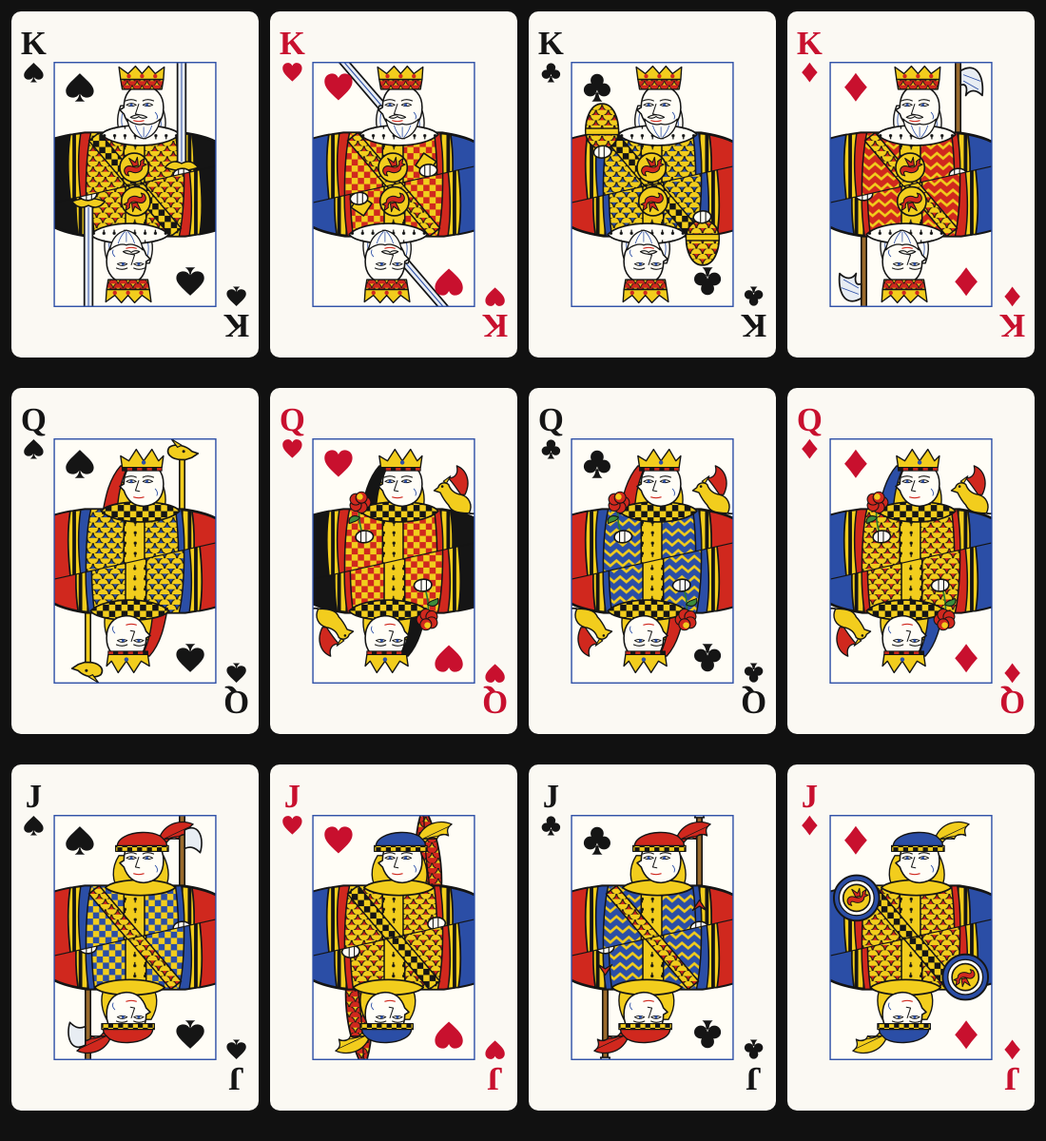
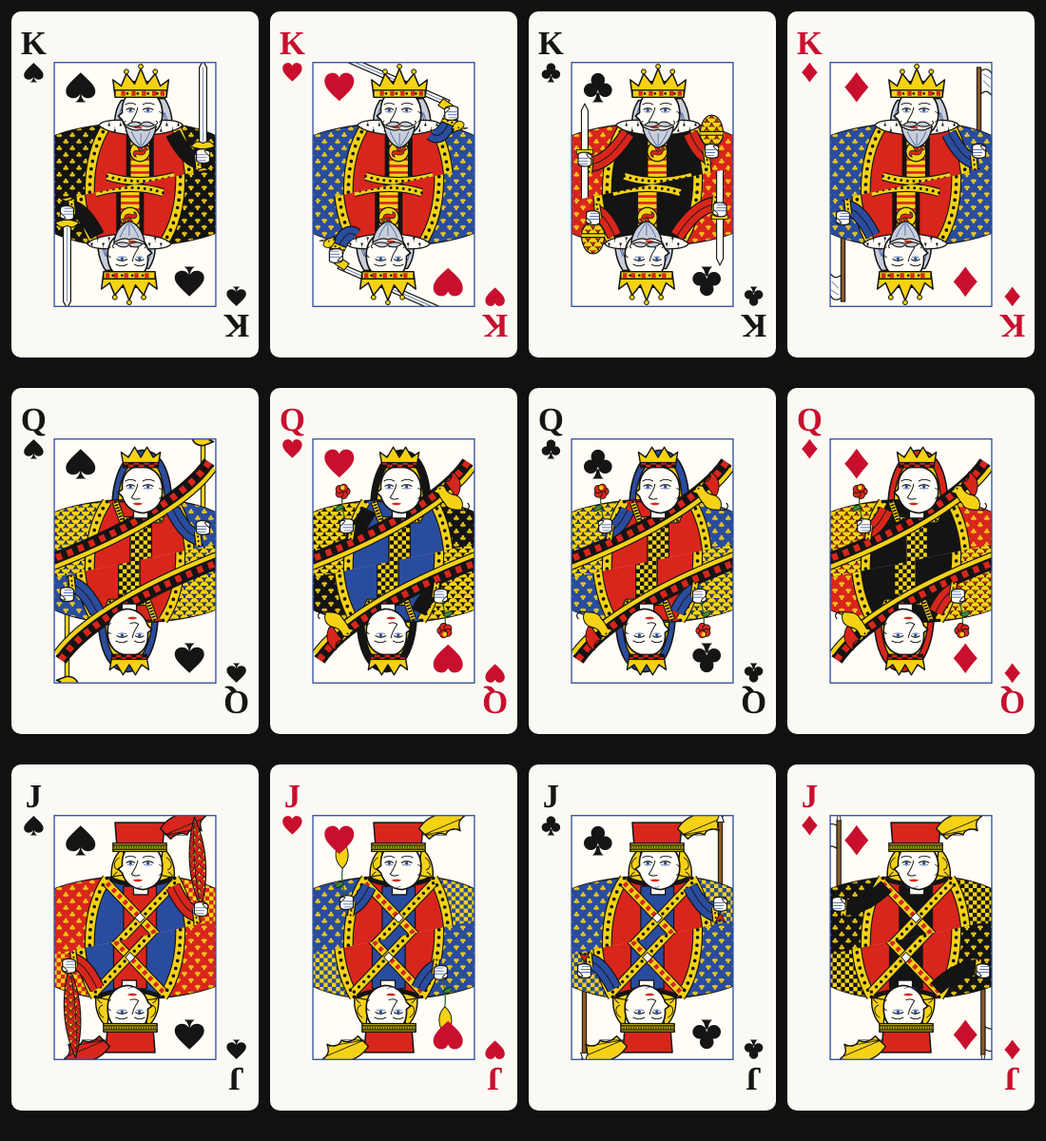
Court cards redrawn to follow the classic printed style more closely
Figures now fill the frame edge to edge; robes are built from braided
bands (black-edged strips with dots, blocks and stitching) curving down
the front, with ermine capes, patterned side panels, barred plackets,
sleeves ending in braided cuffs and white fists gripping the props.
Faces are fine line drawings with larger heads; kings have grey hair,
curled moustaches and beards, queens hoods and a diagonal veil band,
jacks flat-topped caps and curly hair. Dragon touches are kept.

Claude-Session: https://claude.ai/code/session_011sbz8Qg3PLjYgjJ6kkM3NU

diff --git a/cardArt.js b/cardArt.js
@@ -61,34 +61,40 @@ function ace(ctx,s){
 }
 
 /* ---------- court cards (J, Q, K) ----------
-   Drawn in the traditional printed style: flat red, yellow, blue and black with heavy outlines and patterned robes.
+   Modelled on the classic printed court cards: the figure fills its frame edge to edge, robes are covered in
+   "braided" bands (black-edged strips filled with dots, blocks and crosses), faces are fine line drawings,
+   and the colours are only red, yellow, blue, black and white.
    The top half is drawn once; then the canvas is turned 180 degrees and the same drawing fills the bottom half.
-   The two halves meet on a diagonal, like real cards.
-   Dragon touches: dragon-scale cloth, a dragon badge on each king's chest, a little dragon perched on each
-   queen's shoulder, a dragon-wing plume in each jack's cap, and dragon-themed things in their hands. */
-const CK={red:"#d0281e",yellow:"#f2cd1d",blue:"#2b4ea6",black:"#151515",white:"#fffdf6",steel:"#e8edf3"};
-// colours, cloth pattern and the item each court card holds
+   Dragon touches are worked into the traditional props and cloth (see COURT below). */
+const CK={red:"#d8261c",yellow:"#f5d215",blue:"#2a4c9e",black:"#141414",white:"#fffdf6",grey:"#c9ced8"};
+// colours and props for each card: a = main robe colour, b = side panels, item = what they hold
 const COURT={
-  KS:{robe:"red",sleeve:"black",pat:"scales",item:"sword"},   KH:{robe:"red",sleeve:"blue",pat:"checker",item:"swordBehind"},
-  KC:{robe:"blue",sleeve:"red",pat:"scales",item:"egg"},      KD:{robe:"red",sleeve:"blue",pat:"zigzag",item:"axe"},
-  QS:{robe:"blue",sleeve:"red",pat:"scales",item:"sceptre"},  QH:{robe:"red",sleeve:"black",pat:"checker",item:"rose"},
-  QC:{robe:"blue",sleeve:"red",pat:"zigzag",item:"rose"},     QD:{robe:"red",sleeve:"blue",pat:"scales",item:"rose"},
-  JS:{robe:"blue",sleeve:"red",pat:"checker",item:"halberd"}, JH:{robe:"red",sleeve:"blue",pat:"scales",item:"feather"},
-  JC:{robe:"blue",sleeve:"red",pat:"zigzag",item:"arrow"},    JD:{robe:"red",sleeve:"blue",pat:"scales",item:"shield"},
+  KS:{a:"red",b:"black",item:"sword"},        // sword with a dragon-wing guard and dragon-head pommel
+  KH:{a:"red",b:"blue",item:"swordBehind"},   // the sword behind the head, dragon-head pommel
+  KC:{a:"black",b:"red",item:"egg"},          // a dragon egg instead of the orb
+  KD:{a:"red",b:"blue",item:"axe"},           // an axe with a dragon-wing blade
+  QS:{a:"red",b:"blue",item:"sceptre"},       // a sceptre topped with a dragon's head
+  QH:{a:"blue",b:"black",item:"flower"},
+  QC:{a:"red",b:"blue",item:"flower"},
+  QD:{a:"black",b:"red",item:"flower"},
+  JS:{a:"blue",b:"red",item:"feather"},       // a dragon-scale feather
+  JH:{a:"red",b:"blue",item:"leaf"},
+  JC:{a:"red",b:"blue",item:"arrow"},         // an arrow fletched with dragon fins
+  JD:{a:"red",b:"black",item:"halberd"},      // a halberd with a dragon-wing blade
 };
 // small repeating cloth patterns, drawn once at double resolution and reused
 const patterns={};
 function pattern(ctx,kind,a,b){
   const key=kind+a+b;
   if(!patterns[key]){
-    const size={checker:[12,12],scales:[12,10],zigzag:[12,10],stripes:[8,8],dots:[10,10]}[kind];
+    const size={checker:[10,10],scales:[12,10],ermine:[14,14],trefoil:[16,16],bars:[8,8]}[kind];
     const c=document.createElement("canvas");c.width=size[0]*2;c.height=size[1]*2;
     const g=c.getContext("2d");g.scale(2,2);g.fillStyle=a;g.fillRect(0,0,size[0],size[1]);g.fillStyle=b;g.strokeStyle=b;
-    if(kind==="checker"){g.fillRect(0,0,6,6);g.fillRect(6,6,6,6)}
-    if(kind==="scales"){g.strokeStyle=CK.black;g.lineWidth=.9;for(const[x,y]of[[0,0],[12,0],[6,5],[0,10],[12,10]]){g.beginPath();g.arc(x,y,5.6,0,Math.PI);g.fill();g.stroke()}}
-    if(kind==="zigzag"){g.lineWidth=2.4;g.beginPath();g.moveTo(-1,8);g.lineTo(6,2);g.lineTo(13,8);g.stroke()}
-    if(kind==="stripes")g.fillRect(0,0,3.5,8);
-    if(kind==="dots"){g.beginPath();g.arc(5,5,1.5,0,7);g.fill();g.fillRect(4.4,5,1.2,3.5)}
+    if(kind==="checker"){g.fillRect(0,0,5,5);g.fillRect(5,5,5,5)}
+    if(kind==="scales"){g.strokeStyle=CK.black;g.lineWidth=.8;for(const[x,y]of[[0,0],[12,0],[6,5],[0,10],[12,10]]){g.beginPath();g.arc(x,y,5.6,0,Math.PI);g.fill();g.stroke()}}
+    if(kind==="ermine")for(const[x,y]of[[3.5,3.5],[10.5,10.5]]){g.beginPath();g.moveTo(x,y-2);g.lineTo(x+1.6,y+2.5);g.lineTo(x-1.6,y+2.5);g.fill();g.fillRect(x-.4,y-3.4,.8,1.2)}
+    if(kind==="trefoil")for(const[x,y]of[[4,4],[12,12]]){for(const[dx,dy]of[[0,-1.8],[-1.7,.8],[1.7,.8]]){g.beginPath();g.arc(x+dx,y+dy,1.5,0,7);g.fill()}g.fillRect(x-.35,y,.7,3)}
+    if(kind==="bars")g.fillRect(0,0,8,3);
     patterns[key]=c;
   }
   const p=ctx.createPattern(patterns[key],"repeat");p.setTransform(new DOMMatrix().scale(.5));return p;
@@ -99,134 +105,186 @@ function court(ctx,rank,s){
   ctx.fillStyle=CK.white;ctx.fillRect(fx,fy,fw,fh);
   for(const turn of[0,Math.PI]){
     ctx.save();ctx.translate(W/2,H/2);ctx.rotate(turn);
-    ctx.beginPath();ctx.moveTo(-fw/2,-fh/2);ctx.lineTo(fw/2,-fh/2);ctx.lineTo(fw/2,-22);ctx.lineTo(-fw/2,22);ctx.clip(); // the diagonal half
-    ctx.save();courtFigure(ctx,rank,s,o);ctx.restore();
-    suit(ctx,s,-67,-118,36);
+    ctx.beginPath();ctx.moveTo(-fw/2,-fh/2);ctx.lineTo(fw/2,-fh/2);ctx.lineTo(fw/2,-20);ctx.lineTo(-fw/2,20);ctx.clip(); // the diagonal half
+    ctx.save();courtFigure(ctx,rank,o);ctx.restore();
+    suit(ctx,s,-66,-118,38);
     ctx.restore();
   }
-  ctx.strokeStyle=CK.black;ctx.lineWidth=1.2;ctx.beginPath();ctx.moveTo(fx,H/2+22);ctx.lineTo(fx+fw,H/2-22);ctx.stroke();
-  ctx.strokeStyle=CK.blue;ctx.lineWidth=1.6;ctx.strokeRect(fx,fy,fw,fh);
+  ctx.strokeStyle=CK.blue;ctx.lineWidth=1.5;ctx.strokeRect(fx,fy,fw,fh);
 }
 
-// one half-figure: frame centre at (0,0), head toward -y, the figure's head a little right of centre
-function courtFigure(ctx,rank,s,o){
-  const C=k=>CK[k]||k;
-  const ink=(lw=1.8,col=CK.black)=>{ctx.lineWidth=lw;ctx.strokeStyle=col;ctx.lineJoin="round";ctx.lineCap="round"};
-  const fill=(d,f,lw=1.8)=>{const p=new Path2D(d);ctx.fillStyle=f;ctx.fill(p);ink(lw);ctx.stroke(p)};
-  const line=(d,lw=1.2,col=CK.black)=>{ink(lw,col);ctx.stroke(new Path2D(d))};
+// one half-figure: frame centre at (0,0), head toward -y, frame edges at x = +-98 and y = -148
+function courtFigure(ctx,rank,o){
+  const C=k=>CK[k]||k,A=C(o.a),B=C(o.b);
+  const ink=(lw,col=CK.black)=>{ctx.lineWidth=lw;ctx.strokeStyle=col;ctx.lineJoin="round";ctx.lineCap="round"};
+  const fill=(d,f,lw=1.6)=>{const p=new Path2D(d);ctx.fillStyle=f;ctx.fill(p);if(lw){ink(lw);ctx.stroke(p)}};
+  const line=(d,lw=1,col=CK.black)=>{ink(lw,col);ctx.stroke(new Path2D(d))};
   const pat=(kind,a,b)=>pattern(ctx,kind,C(a),C(b));
-  const hand=(x,y)=>{fill(`M${x-8} ${y}C${x-9} ${y-8} ${x+7} ${y-10} ${x+9} ${y-2}C${x+9} ${y+6} ${x-7} ${y+7} ${x-8} ${y}Z`,CK.white,1.5);line(`M${x-3} ${y-6}V${y+4}M${x+2} ${y-6}V${y+4}`,1)};
-  const roundel=(x,y,r)=>{ // a gold badge with a red dragon curled inside
-    fill(`M${x+r} ${y}A${r} ${r} 0 1 1 ${x-r} ${y}A${r} ${r} 0 1 1 ${x+r} ${y}Z`,CK.yellow,1.5);
-    ctx.save();ctx.translate(x,y);ctx.scale(r/14,r/14);
-    fill("M-8 7C-12 2 -8 -3 -2 -1C3 1 7 -1 6 -6L10 -9L9 -4L12 -3L8 -1C8 5 1 6 -3 4C-6 3 -7 5 -5 8Z",CK.red,1);
-    fill("M-1 -1L-5 -9L1 -5L3 -10L4 -2Z",CK.red,1);
-    ctx.restore();
+  // a braided band: black edges, a coloured strip, and a repeating motif along its middle
+  const band=(d,w,base,motif)=>{
+    const p=new Path2D(d);ctx.lineJoin="round";ctx.lineCap="butt";
+    ctx.lineWidth=w+2.6;ctx.strokeStyle=CK.black;ctx.stroke(p);ctx.lineWidth=w;ctx.strokeStyle=C(base);ctx.stroke(p);
+    if(!motif)return;
+    ctx.save();
+    if(motif==="dots"){ctx.setLineDash([0,w*.95]);ctx.lineCap="round";ctx.lineWidth=w*.42;ctx.strokeStyle=CK.black}
+    if(motif==="blocks"){ctx.setLineDash([w*.55,w*.55]);ctx.lineWidth=w*.62;ctx.strokeStyle=CK.red}
+    if(motif==="bluedots"){ctx.setLineDash([0,w*.95]);ctx.lineCap="round";ctx.lineWidth=w*.42;ctx.strokeStyle=CK.blue}
+    if(motif==="line"){ctx.lineWidth=1;ctx.strokeStyle=CK.black}
+    if(motif==="stitch"){ctx.setLineDash([w*.3,w*.3]);ctx.lineWidth=w*.8;ctx.strokeStyle=CK.black}
+    ctx.stroke(p);ctx.restore();
   };
-  const robe=C(o.robe),sleeve=C(o.sleeve);
-  ctx.translate(-6,22);ctx.scale(1.25,1.25); // enlarge so the figure fills the frame, like real court cards
-  const headSpace=()=>{ctx.save();ctx.translate(10,-70);ctx.scale(.8,.8);ctx.translate(-10,70)}; // heads a little smaller than the body
+  // a white fist gripping something at (x,y)
+  const fist=(x,y,flip=1)=>{ctx.save();ctx.translate(x,y);ctx.scale(flip,1);
+    fill("M-8 -6C-8 -10 6 -10 8 -6V5C8 9 -6 9 -8 5Z",CK.white,1.4);
+    line("M-8 -2H4M-8 1.5H4M-8 5H3",.8,CK.blue);fill("M2 -7C8 -8 10 -4 7 -1C5 -3 3 -4 2 -7Z",CK.white,1);
+    ctx.restore()};
+  const pommelDragon=(x,y,r=0)=>{ctx.save();ctx.translate(x,y);ctx.rotate(r);   // a little dragon head on a hilt
+    fill("M0 0C-6 0 -9 -4 -8 -8C-6 -11 0 -11 4 -8L9 -7L5 -4L8 -3L3 -1Z",CK.yellow,1.1);
+    fill("M-4 -10L-8 -15L-1 -11Z",CK.yellow,.8);ctx.fillStyle=CK.black;ctx.beginPath();ctx.arc(0,-7,1,0,7);ctx.fill();ctx.restore()};
+  const badge=(x,y,r)=>{ // a round gold badge with a red dragon curled inside
+    fill(`M${x+r} ${y}A${r} ${r} 0 1 1 ${x-r} ${y}A${r} ${r} 0 1 1 ${x+r} ${y}Z`,CK.yellow,1.4);
+    ctx.save();ctx.translate(x,y);ctx.scale(r/14,r/14);
+    fill("M-8 7C-12 2 -8 -3 -2 -1C3 1 7 -1 6 -6L10 -9L9 -4L12 -3L8 -1C8 5 1 6 -3 4C-6 3 -7 5 -5 8Z",CK.red,.9);
+    fill("M-1 -1L-5 -9L1 -5L3 -10L4 -2Z",CK.red,.9);ctx.restore()};
 
-  /* items carried behind the body (shifted in so they stay inside the frame) */
-  const inward=()=>{ctx.save();ctx.translate(-24,o.item==="sceptre"?18:0)};
-  inward();
-  if(o.item==="swordBehind"){fill("M58 -40L-36 -150L-28 -152L64 -46Z",CK.steel,1.6);line("M61 -43L-32 -151",1,CK.blue)}
-  if(o.item==="halberd"||o.item==="sceptre"||o.item==="axe"||o.item==="arrow")fill("M72 -16V-136H77V-16Z",o.item==="sceptre"?CK.yellow:"#9a6a2c",1.5);
-  if(o.item==="feather"){fill("M70 -30C50 -70 44 -110 58 -146C76 -110 80 -70 70 -30Z",pat("scales","yellow","red"),1.6);line("M70 -30C62 -70 58 -110 58 -146",1.2)}
+  const headSpace=()=>{ctx.save();ctx.translate(7,-57);ctx.scale(1.25,1.25);ctx.translate(-7,72)}; // heads drawn larger, as on real cards
 
-  ctx.restore();
-
-  /* robe: sleeves, chest panel, trims */
-  fill("M-100 40V-38C-96 -56 -74 -64 -44 -68H52C80 -64 96 -56 100 -40V40Z",robe);
-  fill("M-100 40V-38C-96 -56 -80 -62 -58 -66C-62 -40 -60 -10 -52 40Z",sleeve);
-  fill("M100 40V-38C96 -56 80 -62 60 -66C64 -40 62 -10 56 40Z",sleeve);
-  fill("M-58 -66C-62 -40 -60 -10 -52 40H-42C-50 -10 -52 -40 -48 -67Z",pat("stripes","yellow",CK.black),1.4);
-  fill("M60 -66C64 -40 62 -10 56 40H46C54 -10 54 -40 50 -67Z",pat("stripes","yellow",CK.black),1.4);
-  fill("M-40 40C-44 0 -44 -40 -38 -68H44C48 -40 48 0 44 40Z",pat(o.pat,o.robe,"yellow"),1.4);
-  fill("M-6 40V-68H14V40Z",pat("dots","yellow",CK.black),1.4);
-  if(rank!=="Q")fill("M-40 -60L-30 -68L48 24L40 34Z",pat(o.pat==="scales"?"checker":"scales",o.pat==="scales"?"yellow":"red",o.pat==="scales"?CK.black:"yellow"),1.4);
-
-  headSpace();
-  /* hair and veil behind the head */
-  if(rank==="K"){fill("M-14 -100C-20 -84 -18 -70 -12 -64H36C42 -70 42 -86 36 -100Z",CK.white,1.6);line("M-12 -90C-14 -80 -12 -72 -8 -66M32 -92C36 -82 36 -72 32 -66",1,CK.blue)}
-  if(rank==="J")fill("M-16 -104C-26 -88 -24 -72 -16 -62H38C46 -72 46 -88 38 -104Z",CK.yellow,1.6);
-  if(rank==="Q"){fill("M-14 -100C-22 -84 -20 -70 -14 -62H36C42 -70 42 -86 36 -100Z",CK.yellow,1.6);fill("M-14 -120C-28 -104 -32 -84 -36 -62L-18 -60C-18 -80 -14 -100 -6 -118Z",sleeve,1.6)}
-  ctx.restore();
-
-  /* neck, collar */
-  fill("M2 -76V-64H18V-76Z",CK.white,1.4);
-  if(rank==="K")fill("M-28 -66C-14 -52 34 -52 48 -66C40 -78 -20 -78 -28 -66Z",pat("dots",CK.white,CK.black),1.6);
-  if(rank==="Q")fill("M-28 -66C-14 -52 34 -52 48 -66C40 -78 -20 -78 -28 -66Z",pat("checker","yellow",CK.black),1.6);
-  if(rank==="J")fill("M-24 -66C-12 -56 32 -56 44 -66C36 -76 -16 -76 -24 -66Z",CK.yellow,1.6);
-  if(rank==="K")roundel(4,-34,14);
+  /* ---- props carried behind the body ---- */
+  if(o.item==="swordBehind"){fill("M64 -96L-60 -150L-56 -156L68 -102Z",CK.white,1.4);line("M66 -99L-58 -153",.8,CK.blue)}
+  if(o.item==="axe"||o.item==="sceptre"||o.item==="halberd"||o.item==="arrow")
+    fill(`M${o.item==="halberd"?-90:80} 20V-142H${o.item==="halberd"?-85:85}V20Z`,o.item==="sceptre"?CK.yellow:"#8a5a26",1.2);
+  if(o.item==="axe"){fill("M85 -138C98 -146 104 -126 98 -108C93 -114 90 -114 85 -110Z",CK.white,1.4);line("M88 -134L97 -128M88 -126L96 -118",.7,CK.blue)}
+  if(o.item==="halberd"){fill("M-90 -136C-104 -144 -110 -124 -104 -106C-99 -112 -95 -112 -90 -108Z",CK.white,1.4);fill("M-90 -142L-87.5 -154L-85 -142Z",CK.white,1)}
 
   headSpace();
-  /* face: three-quarter view, looking to the left */
-  fill("M12 -124C30 -124 38 -112 38 -98C38 -82 30 -72 14 -71C2 -71 -6 -78 -10 -90L-15 -95L-10 -98C-10 -112 -4 -124 12 -124Z",CK.white,1.8);
-  fill("M-7 -101Q-1 -105 5 -101Q-1 -98 -7 -101Z",CK.white,1.1);fill("M13 -101Q19 -105 25 -101Q19 -98 13 -101Z",CK.white,1.1);
-  ctx.fillStyle=CK.blue;for(const x of[-1,18]){ctx.beginPath();ctx.arc(x,-101,1.7,0,7);ctx.fill()}
-  line("M-8 -106Q-1 -109 5 -106M13 -106Q19 -109 26 -106",1.3);
-  line("M8 -102L4 -90L9 -89",1.2);
-  line("M2 -82Q8 -80 14 -82",1.4,CK.red);
-  line("M28 -92Q32 -88 30 -84",1,CK.blue);
-  if(rank==="K"){
-    fill("M-6 -84C-4 -70 4 -62 14 -60C24 -62 32 -70 34 -84C28 -78 20 -76 14 -78C8 -76 0 -78 -6 -84Z",CK.white,1.5);
-    line("M4 -76C6 -70 8 -66 12 -62M14 -74V-62M24 -76C22 -70 20 -66 16 -62",.9,CK.blue);
-    fill("M-2 -86C4 -90 12 -90 18 -86C14 -84 10 -85 8 -87C6 -85 2 -84 -2 -86Z",CK.white,1.3);
+  /* ---- hair, hood and veil behind the head ---- */
+  if(rank==="K"){fill("M-12 -108C-20 -96 -20 -80 -14 -68H34C40 -80 38 -98 30 -110Z",CK.grey,1.4);
+    line("M-12 -100C-16 -90 -14 -80 -10 -72M-6 -98C-10 -88 -8 -78 -4 -70M26 -102C32 -92 32 -80 28 -70M30 -96C34 -88 34 -78 32 -70",.7,CK.blue)}
+  if(rank==="Q"){
+    fill("M-20 -64C-24 -96 -14 -132 8 -134C32 -134 40 -100 36 -64Z",B,1.5);                         // hood
+    fill("M-14 -66C-18 -94 -10 -124 8 -126C28 -126 32 -96 30 -66Z",CK.yellow,1.2);                  // hood lining
+    line("M-10 -70C-12 -94 -6 -116 8 -120M26 -70C28 -94 24 -116 8 -120",.7,CK.black);
   }
+  if(rank==="J"){for(const s of[-1,1]){const x=s<0?-12:30;
+    fill(`M${x} -112C${x+s*12} -100 ${x+s*12} -82 ${x+s*4} -66C${x-s*4} -76 ${x-s*4} -96 ${x-s*2} -110Z`,CK.yellow,1.3);
+    line(`M${x+s*2} -104C${x+s*8} -100 ${x+s*8} -94 ${x+s*3} -92M${x+s*4} -90C${x+s*10} -86 ${x+s*9} -80 ${x+s*4} -78`,.8)}}
+  ctx.restore();
 
-  /* headwear */
+  /* ---- the body fills the frame edge to edge ---- */
+  fill("M-100 30V-58C-82 -66 -52 -72 -22 -74H36C64 -72 84 -66 100 -58V30Z",A,1.6);
+  // side panels in the second colour, patterned
+  fill("M-100 30V-58C-82 -66 -56 -70 -34 -72C-50 -48 -58 -14 -54 30Z",B,1.4);
+  fill("M100 30V-58C84 -66 66 -70 48 -72C62 -48 70 -14 66 30Z",B,1.4);
+  fill("M-100 30V-58C-82 -66 -56 -70 -34 -72C-50 -48 -58 -14 -54 30Z",pat(rank==="Q"?"scales":"trefoil",o.b,rank==="Q"?"yellow":"yellow"),0);
+  fill("M100 30V-58C84 -66 66 -70 48 -72C62 -48 70 -14 66 30Z",pat(rank==="J"?"checker":"trefoil",o.b,"yellow"),0);
+  // the robe's opening edges: big curved braided bands, like the C-shaped trims on real court cards
+  band("M-34 -72C-50 -48 -58 -14 -54 30",10,"yellow","dots");
+  band("M48 -72C62 -48 70 -14 66 30",10,"yellow","dots");
+
   if(rank==="K"){
-    fill("M-12 -120L-14 -132H38L36 -120Z",pat("scales","yellow","red"),1.6);
-    fill("M-14 -132L-16 -147L-5 -139L4 -148L12 -139L20 -148L28 -139L39 -147L38 -132Z",CK.yellow,1.6);
-    ctx.fillStyle=CK.red;for(const x of[-4,12,28]){ctx.beginPath();ctx.arc(x,-136,2.5,0,7);ctx.fill()}
+    // front placket: stacked red and yellow bars, with a dragon badge on the chest
+    fill("M-8 30V-62H20V30Z",pat("bars","yellow","red"),1.4);
+    band("M-8 -62V30",3,"black");band("M20 -62V30",3,"black");
+    badge(6,-40,12);
+    band("M-34 -10C-10 -2 20 -2 48 -10",8,"yellow","dots");                                           // belt
+    // ermine cape across the shoulders
+    fill("M-44 -72C-30 -56 44 -56 58 -72C52 -80 30 -78 6 -78C-18 -78 -38 -80 -44 -72Z",pat("ermine","white","black"),1.5);
   }
   if(rank==="Q"){
-    fill("M-12 -118L-14 -132L-4 -126L5 -140L14 -126L24 -140L32 -126L38 -132L36 -118Z",CK.yellow,1.6);
-    fill("M-12 -118H36V-114H-12Z",pat("checker",CK.red,CK.black),1.2);
-    ctx.fillStyle=CK.blue;ctx.beginPath();ctx.arc(14,-124,2.6,0,7);ctx.fill();
+    // square-necked bodice with a checked border, and the long veil band sweeping across
+    fill("M-24 -72L-16 -50H30L38 -72Z",A,1.4);
+    band("M-24 -72L-16 -50H30L38 -72",6,"yellow","stitch");
+    fill("M-6 30V-50H20V30Z",pat("checker","yellow","black"),1.3);
+    band("M90 -120C66 -84 0 -40 -100 -2",13,"black","blocks");
+    band("M96 -112C72 -78 8 -34 -100 8",5,"yellow");
   }
   if(rank==="J"){
-    fill("M-18 -114C-20 -136 44 -140 42 -114Z",sleeve,1.6);
-    fill("M-20 -116H44V-109H-20Z",pat("checker","yellow",CK.black),1.4);
+    // tunic: crossed straps over a dark centre panel
+    fill("M-14 30V-62H26V30Z",B,1.4);
+    band("M-34 -66L48 20",9,"yellow","blocks");band("M48 -66L-34 20",9,"yellow","dots");
+    fill("M6 -30L12 -24L6 -18L0 -24Z",CK.white,1);
+    fill("M-30 -72C-16 -62 30 -62 44 -72C40 -78 -26 -78 -30 -72Z",CK.yellow,1.4);                    // collar
+    band("M-30 -72C-16 -62 30 -62 44 -72",3,"black");
+  }
+
+  headSpace();
+  /* ---- neck and face: a fine line drawing, three-quarter view looking left ---- */
+  fill("M0 -78V-68H14V-78Z",CK.white,1.2);
+  fill("M6 -118C21 -118 28 -108 28 -95C28 -83 22 -75 10 -73C0 -73 -8 -79 -11 -89L-15 -93L-11 -96C-12 -108 -6 -118 6 -118Z",CK.white,1.5);
+  line("M-7 -99Q-3 -102 1 -99M9 -99Q14 -102 19 -99",1);                                                   // upper lids
+  line("M-6 -97Q-3 -96 0 -97M10 -97Q14 -96 18 -97",.6,CK.blue);                                          // lower lids
+  ctx.fillStyle=CK.blue;for(const x of[-3,14]){ctx.beginPath();ctx.arc(x,-98.5,1.5,0,7);ctx.fill()}
+  line("M-8 -104Q-3 -107 2 -104M9 -104Q14 -107 20 -104",.9);                                              // brows
+  line("M4 -101C3 -95 0 -91 -2 -88C0 -86 3 -86 6 -87",.9);                                               // nose
+  fill("M-1 -82Q4 -84 9 -82Q4 -79 -1 -82Z",CK.red,0);                                                    // lips
+  line("M25 -97C29 -96 29 -89 25 -87",.8);                                                               // ear
+  if(rank==="K"){
+    fill("M-8 -83C-6 -71 0 -64 7 -62C14 -64 20 -71 22 -83C16 -79 11 -78 7 -80C3 -78 -2 -79 -8 -83Z",CK.grey,1.2);  // beard
+    line("M-2 -78C0 -72 3 -68 6 -64M7 -76V-63M16 -78C14 -72 11 -68 8 -64",.6,CK.blue);
+    fill("M-6 -84C-2 -88 4 -88 7 -85C10 -88 16 -88 20 -84C17 -82 12 -82 7 -84C2 -82 -3 -82 -6 -84Z",CK.grey,1); // moustache
+    line("M-6 -84C-9 -84 -10 -87 -8 -88M20 -84C23 -84 24 -87 22 -88",.9);
+  }
+  if(rank==="J")line("M-4 -76C0 -74 4 -74 8 -76",.6,CK.blue);
+
+  /* ---- headwear ---- */
+  if(rank==="K"){
+    fill("M-16 -112C-16 -132 30 -132 30 -112Z",CK.red,1.3);                                               // cap inside the crown
+    fill("M-18 -112L-20 -128L-12 -122L-7 -134L1 -124L7 -139L13 -124L21 -134L26 -122L34 -128L32 -112Z",CK.yellow,1.4);
+    fill("M-18 -118H32V-111H-18Z",CK.yellow,1.3);
+    ctx.fillStyle=CK.red;for(const x of[-12,-2,8,18,26])ctx.fillRect(x,-117,4,4.5);
+    ctx.fillStyle=CK.black;for(const x of[-7,3,13,22]){ctx.beginPath();ctx.arc(x+1,-114.7,1.2,0,7);ctx.fill()}
+    for(const[x,y]of[[-7,-134],[7,-139],[21,-134]]){ctx.fillStyle=CK.yellow;ctx.beginPath();ctx.arc(x,y-2,2.2,0,7);ctx.fill();ink(.9);ctx.stroke()}
+  }
+  if(rank==="Q"){
+    fill("M-10 -120L-12 -132L-5 -127L1 -137L7 -127L13 -137L19 -127L26 -132L24 -120Z",CK.yellow,1.3);
+    fill("M-10 -122H24V-117H-10Z",pat("checker","red","black"),1);
+  }
+  if(rank==="J"){
+    fill("M-16 -112L-18 -138H30L28 -112Z",CK.red,1.4);                                                    // flat-topped cap
+    fill("M-20 -118H32V-110H-20Z",CK.yellow,1.3);band("M-20 -114H32",2.5,"yellow","stitch");
     // dragon-wing plume
-    fill("M34 -128C42 -144 60 -148 74 -142C68 -138 68 -134 70 -128C64 -131 58 -130 56 -124C52 -127 46 -126 42 -120Z",robe===CK.red?CK.yellow:CK.red,1.5);
-    line("M38 -124L72 -140M38 -124L68 -130M38 -124L56 -124",.9);
+    fill("M26 -132C36 -148 56 -150 70 -144C64 -140 64 -136 66 -130C60 -133 54 -132 52 -126C48 -129 42 -128 36 -122Z",A===CK.red?CK.yellow:CK.red,1.3);
+    line("M30 -126L68 -142M30 -126L64 -132M30 -126L52 -126",.7);
   }
   ctx.restore();
 
-  /* items held in front, and the hands that hold them */
-  inward();
-  const R=[74,-26]; // right hand (viewer's right)
-  if(o.item==="sword"){fill("M70 -38V-138L74 -146L78 -138V-38Z",CK.steel,1.6);line("M74 -40V-138",.9,CK.blue);
-    fill("M58 -34C64 -42 70 -40 74 -38C78 -40 84 -42 90 -34C84 -32 80 -31 74 -31C68 -31 64 -32 58 -34Z",CK.yellow,1.4);hand(...R)} // wing-shaped crossguard
-  if(o.item==="swordBehind"){fill("M50 -36L58 -48L70 -40L62 -28Z",CK.yellow,1.4);hand(62,-30)}
-  if(o.item==="axe"){fill("M77 -128C94 -138 100 -120 98 -104C92 -110 86 -110 82 -104C84 -112 82 -116 77 -114Z",CK.steel,1.6);line("M80 -124L96 -118M80 -118L94 -110",.8,CK.blue);hand(...R)} // blade shaped like a dragon wing
-  if(o.item==="halberd"){fill("M77 -122C92 -130 96 -112 92 -100C86 -106 82 -106 77 -104Z",CK.steel,1.5);fill("M72 -136L74.5 -150L77 -136Z",CK.steel,1.2);hand(...R)}
-  if(o.item==="arrow"){fill("M70 -134L74.5 -148L79 -134Z",CK.steel,1.4);fill("M68 -44L74.5 -54L81 -44L74.5 -48Z",CK.red,1.2);hand(...R)}
-  if(o.item==="sceptre"){ // topped with a dragon's head
-    fill("M74 -134C64 -134 58 -140 62 -146C68 -150 78 -148 84 -142L90 -140L84 -136L78 -134Z",CK.yellow,1.5);
-    fill("M70 -146L64 -154L74 -148Z",CK.yellow,1.1);ctx.fillStyle=CK.black;ctx.beginPath();ctx.arc(76,-142,1.4,0,7);ctx.fill();hand(...R)}
-  if(o.item==="feather")hand(70,-30);
-  ctx.restore();
-  if(o.item==="egg"){ // a dragon egg instead of an orb
-    ctx.save();ctx.translate(16,0);
-    fill("M-60 -96C-48 -96 -44 -80 -44 -70C-44 -58 -52 -52 -60 -52C-68 -52 -76 -58 -76 -70C-76 -80 -72 -96 -60 -96Z",pat("scales",CK.red,"yellow"),1.6);
-    fill("M-76 -72H-44V-66H-76Z",CK.yellow,1.2);hand(-60,-48);ctx.restore()}
-  if(o.item==="shield"){ctx.save();ctx.translate(10,8);fill("M-36 -64A22 22 0 1 1 -80 -64A22 22 0 1 1 -36 -64Z",CK.blue,1.8);fill("M-41 -64A17 17 0 1 1 -75 -64A17 17 0 1 1 -41 -64Z",CK.white,1.2);roundel(-58,-64,13);ctx.restore()}
-  if(o.item==="rose"){
-    line("M-24 -40C-28 -50 -30 -62 -28 -74",1.6,"#2f7a2f");
-    fill("M-28 -60C-36 -64 -40 -58 -38 -54C-34 -56 -30 -56 -28 -60Z","#3c8c3c",1);
-    for(let i=0;i<5;i++){const a=i/5*Math.PI*2;fill(`M${-28+Math.cos(a)*5} ${-80+Math.sin(a)*5}A5.5 5.5 0 1 1 ${-28+Math.cos(a)*5-.01} ${-80+Math.sin(a)*5}Z`,CK.red,1)}
-    ctx.fillStyle=CK.yellow;ctx.beginPath();ctx.arc(-28,-80,3,0,7);ctx.fill();hand(-24,-40)}
-  if(rank==="Q"&&o.item!=="sceptre"){ // a little dragon perched on the queen's shoulder, looking at her (the spade queen's is on her sceptre)
-    ctx.save();ctx.translate(66,-64);ctx.scale(-1,1);
-    fill("M-8 -18C-14 -30 -10 -42 0 -46C-2 -38 2 -34 8 -34C4 -30 0 -24 -4 -18Z",CK.red,1.2);             // wing
-    fill("M-12 0C-16 -8 -12 -16 -4 -18C2 -19 6 -22 8 -28C12 -31 17 -29 18 -25L22 -22L16 -20C14 -16 12 -12 8 -8C6 -3 2 0 -12 0Z",CK.yellow,1.3); // body and head
-    fill("M10 -29L6 -36L13 -31Z",CK.yellow,1);                                                            // horn
-    line("M-12 0C-20 2 -24 -4 -20 -8",1.6);                                                               // tail
-    ctx.fillStyle=CK.black;ctx.beginPath();ctx.arc(14,-26,1.2,0,7);ctx.fill();
-    ctx.restore();
+  /* ---- props held in front, with the arms and hands that grip them ---- */
+  const arm=(x1,y1,x2,y2)=>{ // a sleeve from the shoulder to the wrist, ending in a braided cuff
+    const d=`M${x1} ${y1}Q${(x1+x2)/2} ${Math.max(y1,y2)+10} ${x2} ${y2+8}`;
+    band(d,16,o.b,null);band(d,16,o.b,"line");
+    const a=Math.atan2(y2+8-(Math.max(y1,y2)+10),x2-(x1+x2)/2),cx=x2-Math.cos(a)*6,cy=y2+8-Math.sin(a)*6;
+    band(`M${cx-Math.sin(a)*9} ${cy+Math.cos(a)*9}L${cx+Math.sin(a)*9} ${cy-Math.cos(a)*9}`,6,"yellow","dots");
+  };
+  const right=["sword","axe","sceptre","arrow","feather","egg"].includes(o.item),left=["flower","leaf","halberd","egg"].includes(o.item);
+  if(right)arm(46,-62,o.item==="egg"?72:o.item==="feather"?80:82.5,o.item==="egg"?-42:-36);
+  if(o.item==="swordBehind")arm(46,-62,70,-90);
+  if(left)arm(-30,-62,o.item==="halberd"?-87.5:o.item==="egg"?-82:-57,o.item==="egg"?-32:-44);
+  if(o.item==="sword"){   // upright on the right, dragon-wing guard
+    fill("M78 -50V-142L82.5 -150L87 -142V-50Z",CK.white,1.4);line("M82.5 -52V-142",.7,CK.blue);
+    fill("M68 -46C74 -54 79 -52 82.5 -50C86 -52 91 -54 97 -46C91 -44 87 -43 82.5 -43C78 -43 74 -44 68 -46Z",CK.yellow,1.2);
+    fill("M80 -42H85V-26H80Z",CK.black,1);fist(82.5,-34);pommelDragon(82.5,-20,Math.PI)}
+  if(o.item==="swordBehind"){fill("M60 -104L72 -96L66 -88L54 -96Z",CK.yellow,1.2);fist(70,-86,-1);pommelDragon(74,-74,2.4)}
+  if(o.item==="egg"){     // a scaly dragon egg, held up like a king's orb
+    fill("M72 -84C82 -84 86 -70 86 -62C86 -52 80 -46 72 -46C64 -46 58 -52 58 -62C58 -70 62 -84 72 -84Z",pat("scales","red","yellow"),1.4);
+    band("M58 -62H86",3,"yellow");fist(72,-40);
+    fill("M-86 20V-90L-82 -98L-78 -90V20Z",CK.white,1.3);fill("M-92 -42H-72V-37H-92Z",CK.yellow,1);fist(-82,-30)}
+  if(o.item==="axe"||o.item==="sceptre"||o.item==="arrow")fist(82.5,-40);
+  if(o.item==="sceptre"){ctx.save();ctx.translate(82.5,-140);ctx.scale(1.6,1.6);pommelDragon(0,0,0);ctx.restore()}
+  if(o.item==="arrow"){fill("M78 -140L82.5 -152L87 -140Z",CK.white,1.2);fill("M76 -18L82.5 -30L89 -18L82.5 -22Z",CK.red,1)}
+  if(o.item==="halberd")fist(-87.5,-40);
+  if(o.item==="flower"||o.item==="leaf"){ // held up on the left, just under the suit symbol
+    line("M-58 -46C-62 -60 -64 -72 -62 -84",1.5,"#2f6b2f");
+    if(o.item==="flower"){for(let i=0;i<5;i++){const a=i/5*Math.PI*2;fill(`M${-62+Math.cos(a)*4.5} ${-89+Math.sin(a)*4.5}A4.6 4.6 0 1 1 ${-62+Math.cos(a)*4.5-.01} ${-89+Math.sin(a)*4.5}Z`,CK.red,.9)}
+      ctx.fillStyle=CK.yellow;ctx.beginPath();ctx.arc(-62,-89,2.6,0,7);ctx.fill()}
+    else fill("M-62 -84C-74 -94 -72 -110 -62 -118C-54 -108 -52 -94 -62 -84Z",CK.yellow,1.1);
+    fill("M-60 -66C-68 -70 -72 -64 -70 -60C-66 -62 -62 -62 -60 -66Z","#3c8c3c",.8);fist(-57,-42,-1)}
+  if(o.item==="feather"){fill("M80 -36C64 -70 62 -110 72 -146C88 -112 90 -72 80 -36Z",pat("scales","yellow","red"),1.3);line("M80 -36C72 -72 70 -110 72 -146",.9);fist(80,-34)}
+  if(rank==="Q"&&o.item!=="sceptre"){ // a little dragon perched on the queen's shoulder, looking at her
+    ctx.save();ctx.translate(70,-62);ctx.scale(-1,1);
+    fill("M-8 -18C-14 -30 -10 -42 0 -46C-2 -38 2 -34 8 -34C4 -30 0 -24 -4 -18Z",CK.red,1.1);
+    fill("M-12 0C-16 -8 -12 -16 -4 -18C2 -19 6 -22 8 -28C12 -31 17 -29 18 -25L22 -22L16 -20C14 -16 12 -12 8 -8C6 -3 2 0 -12 0Z",CK.yellow,1.2);
+    fill("M10 -29L6 -36L13 -31Z",CK.yellow,.9);line("M-12 0C-20 2 -24 -4 -20 -8",1.4);
+    ctx.fillStyle=CK.black;ctx.beginPath();ctx.arc(14,-26,1.1,0,7);ctx.fill();ctx.restore();
   }
 }
 
